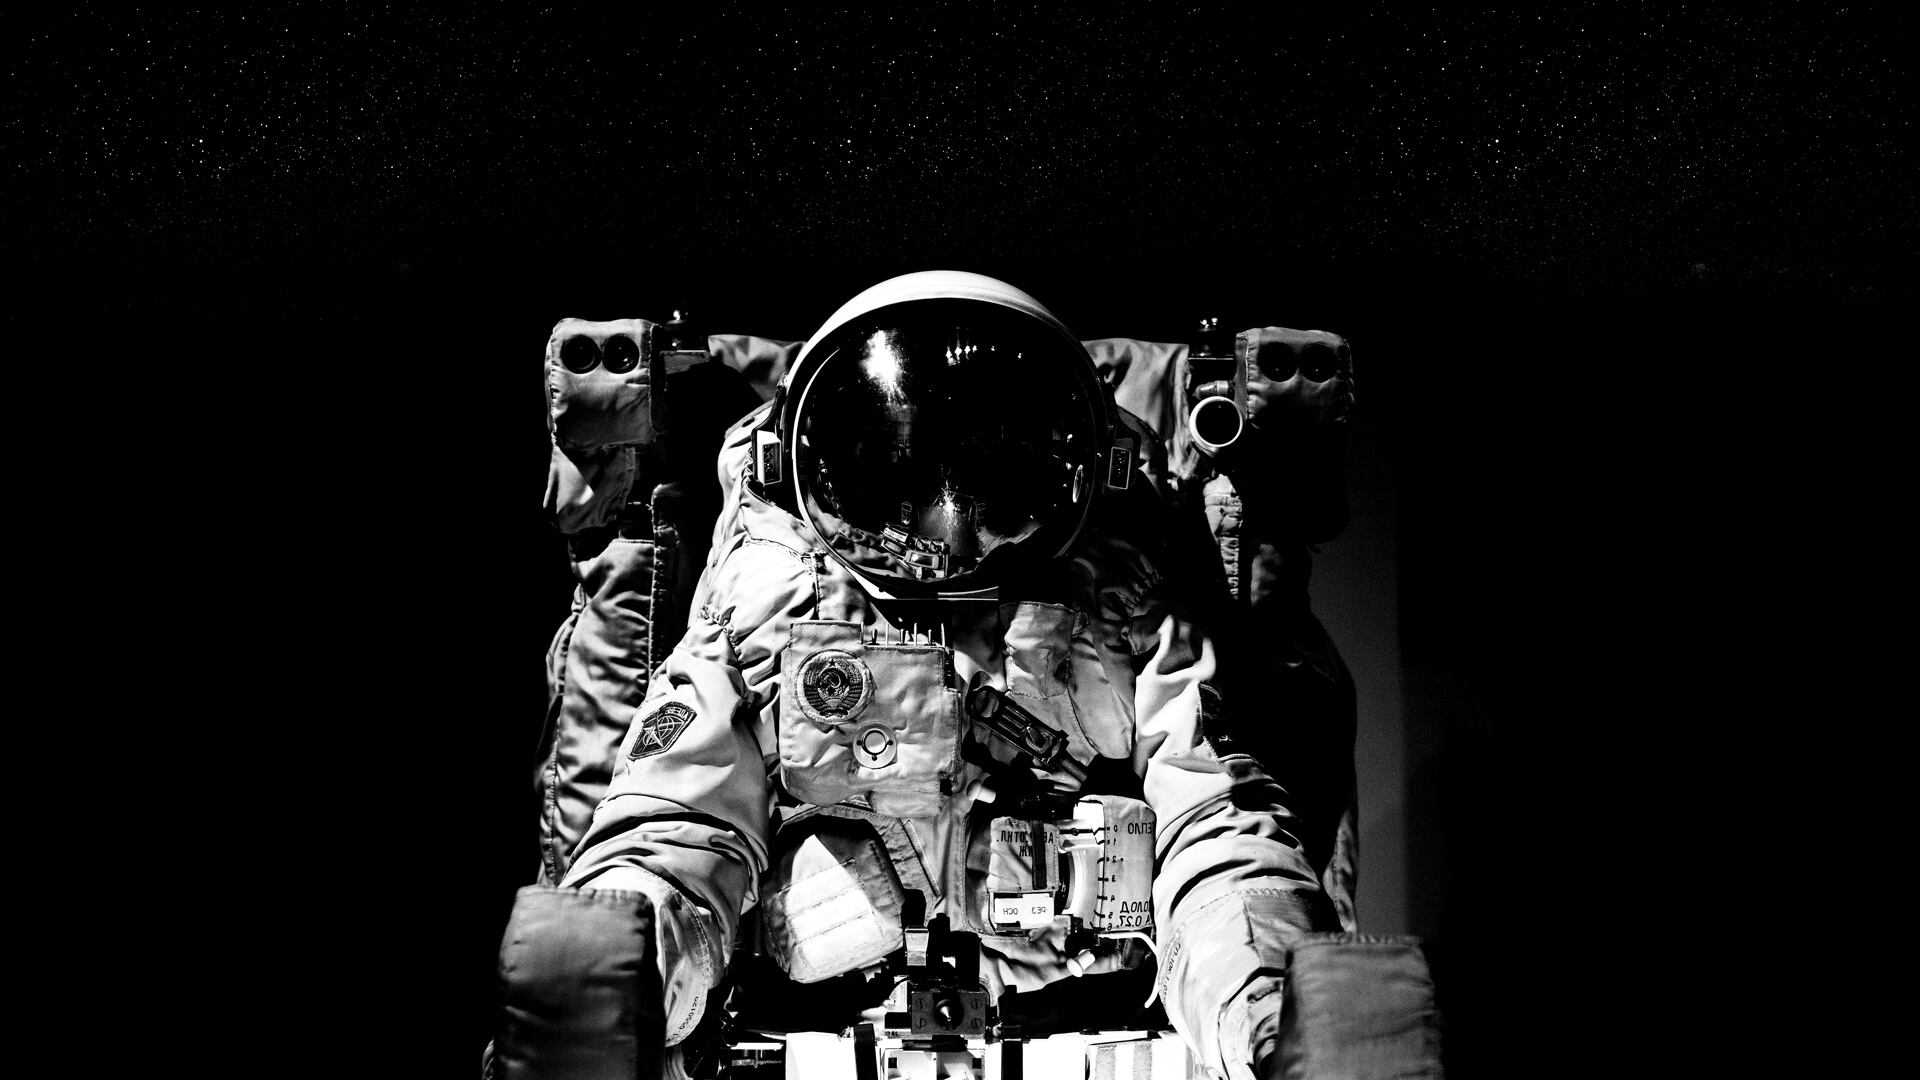
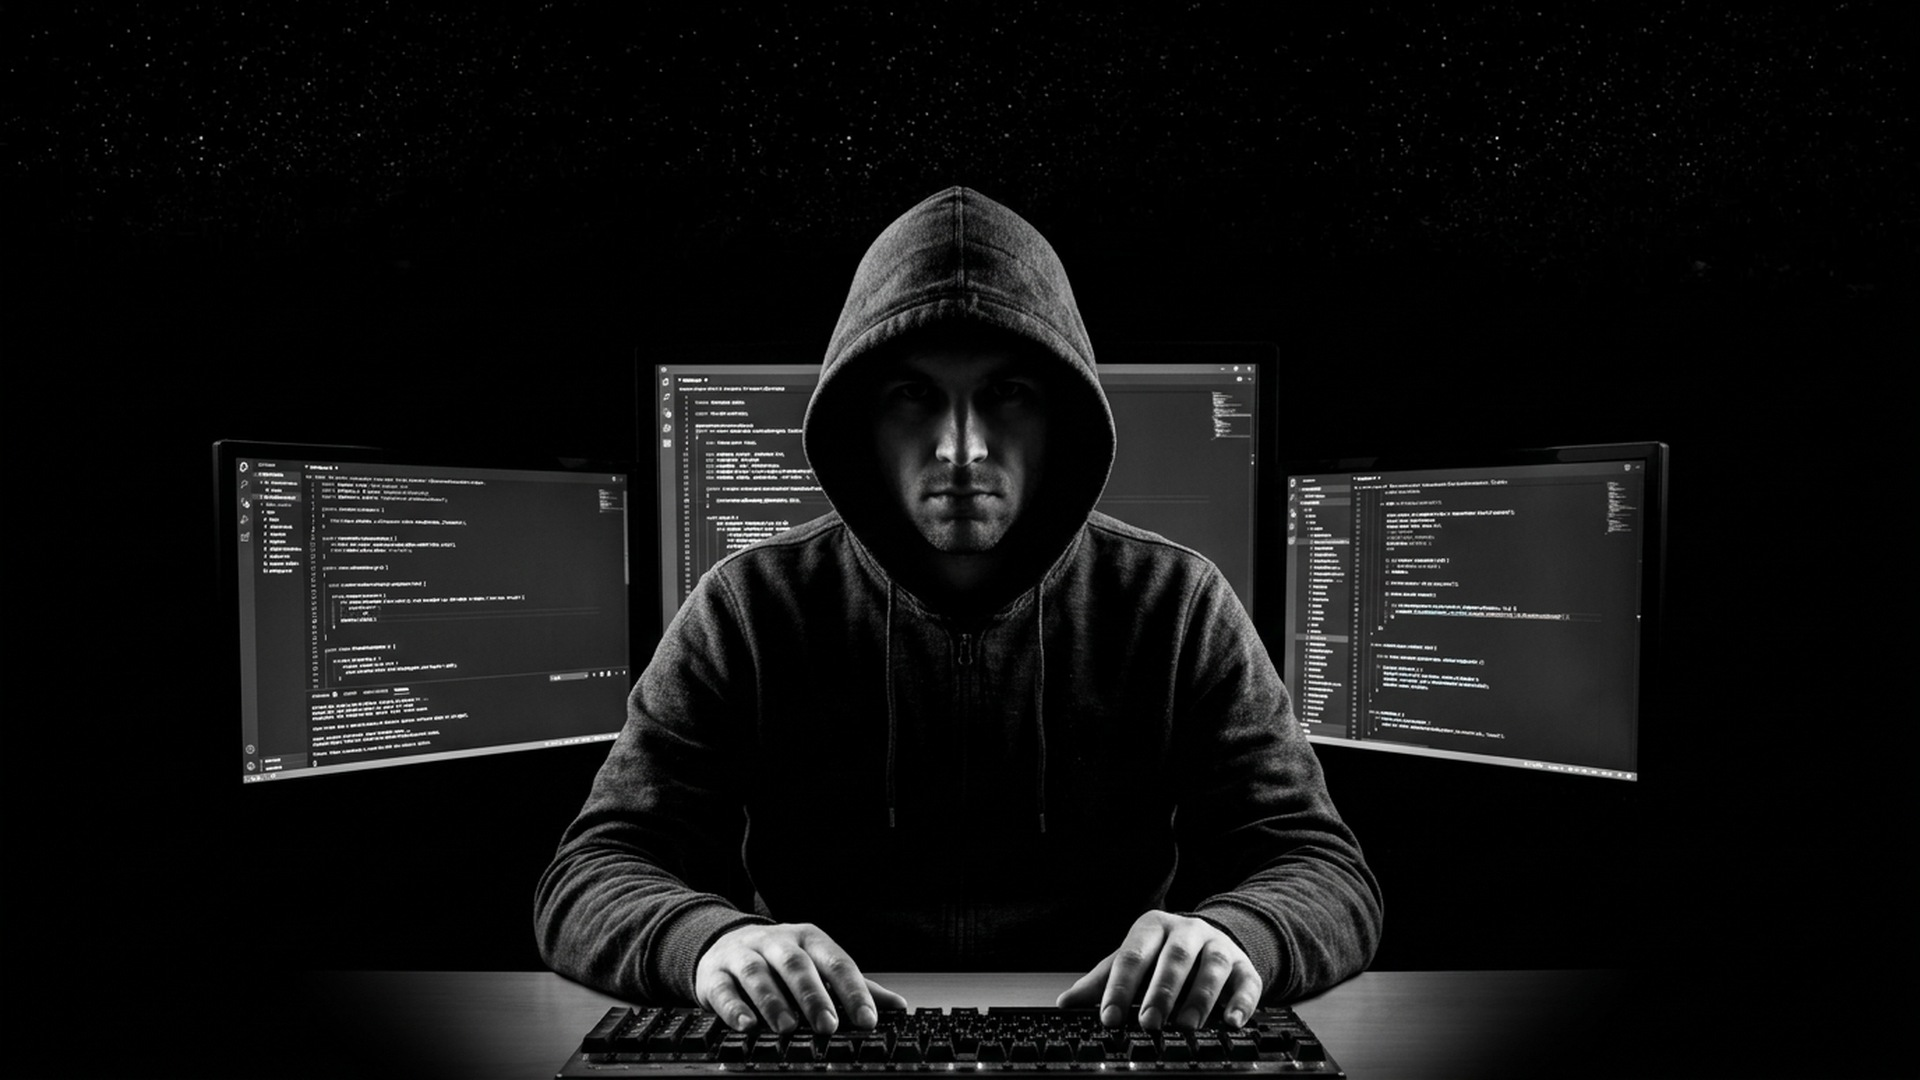
css fix

diff --git a/templates/index.html b/templates/index.html
@@ -29,6 +29,8 @@
   h3 { font-size: 22px !important; }
   h4 { font-size: 14px !important; font-weight: 700 !important; }
   .nav > li > a { font-size: 15px !important; }
+  #main-nav .nav > li > a { font-weight: 600 !important; }
+  #main-nav .nav > li > a.active { font-weight: 700 !important; }
   .form-control { font-size: 14px !important; }
   .btn { font-size: 13px !important; font-weight: 500 !important; }
   .list-unstyled li { font-size: 14px !important; }
@@ -37,7 +39,64 @@
 
   .navbar-scrolled {
     background-color: rgba(0, 0, 0, 0.92) !important;
-    transition: background-color 0.3s ease;
+    transition: background-color 0.3s ease, color 0.2s ease;
+  }
+
+  /* Past hero: white header + bold black links (matches standalone white pages) */
+  #main-nav.main-nav-over-white {
+    background-color: #ffffff !important;
+    border-bottom: 1px solid rgba(0, 0, 0, 0.08);
+    transition: background-color 0.3s ease, color 0.2s ease;
+  }
+  #main-nav.main-nav-over-white.navbar-scrolled {
+    background-color: #ffffff !important;
+  }
+  #main-nav.main-nav-over-white .navbar-nav > li > a {
+    color: #000000 !important;
+    -webkit-text-fill-color: #000000;
+    font-weight: 700 !important;
+    text-shadow: 0.45px 0 0 #000, -0.45px 0 0 #000, 0 0.45px 0 #000, 0 -0.45px 0 #000;
+  }
+  #main-nav.main-nav-over-white .navbar-nav > li > a:hover,
+  #main-nav.main-nav-over-white .navbar-nav > li > a:focus {
+    color: #000000 !important;
+    font-weight: 700 !important;
+  }
+  #main-nav.main-nav-over-white .navbar-nav > li > a.active {
+    color: #000000 !important;
+    font-weight: 700 !important;
+  }
+  #main-nav.main-nav-over-white .navbar-toggle {
+    border-color: rgba(0, 0, 0, 0.35);
+    background-color: #fff;
+  }
+  #main-nav.main-nav-over-white .navbar-toggle .icon-bar {
+    background-color: #000;
+  }
+
+  /* Full-bleed hero: full viewport height, edge-to-edge + dark overlay */
+  .hero-full-bleed {
+    width: 100%;
+    min-height: 100vh;
+    box-sizing: border-box;
+    display: flex;
+    align-items: center;
+    padding: 70px 0 40px;
+    background-color: #0a0a0a;
+    background-size: cover;
+    background-position: center;
+    background-repeat: no-repeat;
+    /* Hero: coder at PC, same composition as original template (space.jpg) */
+    background-image: url('./static/assets/images/space.jpg');
+  }
+  .hero-full-bleed > .container {
+    width: 100%;
+  }
+  .hero-full-bleed .hero-full-wrapper {
+    width: 100%;
+  }
+  .hero-full-bleed .text-content {
+    padding-left: clamp(1.75rem, 5vw, 4.5rem);
   }
 
   /* Cards: fixed height so buttons always align, each card independent */
@@ -160,7 +219,7 @@
 
 <!-- ======================== 01 : HOME ======================== -->
 <section id="home">
-  <div class="hero-full-container background-image-container white-text-container" style="background-image: url('./static/assets/images/space.jpg')">
+  <div class="hero-full-bleed background-image-container white-text-container">
     <div class="container">
       <div class="row">
         <div class="col-xs-12">
@@ -441,15 +500,28 @@
      type();
      movingBackgroundImage();
 
-     // Navbar background on scroll
+     // Navbar: dark bar on hero; white bar + black links on white sections
      var nav = document.getElementById('main-nav');
-     window.addEventListener('scroll', function() {
-       if (window.scrollY > 100) {
-         nav.classList.add('navbar-scrolled');
-       } else {
+     var homeSection = document.getElementById('home');
+     function updateMainNavTheme() {
+       if (!nav || !homeSection) return;
+       var heroBottom = homeSection.offsetTop + homeSection.offsetHeight;
+       var pastHero = window.scrollY >= heroBottom - 40;
+       if (pastHero) {
+         nav.classList.add('main-nav-over-white');
          nav.classList.remove('navbar-scrolled');
+       } else {
+         nav.classList.remove('main-nav-over-white');
+         if (window.scrollY > 100) {
+           nav.classList.add('navbar-scrolled');
+         } else {
+           nav.classList.remove('navbar-scrolled');
+         }
        }
-     });
+     }
+     updateMainNavTheme();
+     window.addEventListener('scroll', updateMainNavTheme);
+     window.addEventListener('resize', updateMainNavTheme);
 
      // Highlight active nav link on scroll
      var sections = document.querySelectorAll('section[id]');
@@ -461,10 +533,8 @@
            var id = section.getAttribute('id');
            navLinks.forEach(function(link) {
              link.classList.remove('active');
-             link.style.fontWeight = '300';
              if (link.getAttribute('href') === '#' + id) {
                link.classList.add('active');
-               link.style.fontWeight = '700';
              }
            });
          }

diff --git a/templates/about.html b/templates/about.html
@@ -23,6 +23,30 @@
   h3 { font-size: 22px !important; }
   h4 { font-size: 14px !important; font-weight: 700 !important; }
   .nav > li > a { font-size: 15px !important; }
+  header .navbar-default .navbar-nav > li > a {
+    color: #000000 !important;
+    -webkit-text-fill-color: #000000;
+    font-weight: 700 !important;
+    letter-spacing: 0.03em;
+    opacity: 1 !important;
+    text-shadow: 0.45px 0 0 #000, -0.45px 0 0 #000, 0 0.45px 0 #000, 0 -0.45px 0 #000;
+  }
+  header .navbar-default .navbar-nav > li > a:hover,
+  header .navbar-default .navbar-nav > li > a:focus {
+    color: #000000 !important;
+    -webkit-text-fill-color: #000000;
+    font-weight: 700 !important;
+    text-shadow: 0.45px 0 0 #000, -0.45px 0 0 #000, 0 0.45px 0 #000, 0 -0.45px 0 #000;
+  }
+  header .navbar-default .navbar-nav > .active > a,
+  header .navbar-default .navbar-nav > .active > a:hover,
+  header .navbar-default .navbar-nav > .active > a:focus,
+  header .navbar-default .navbar-nav > li > a.active {
+    color: #000000 !important;
+    -webkit-text-fill-color: #000000;
+    font-weight: 700 !important;
+    text-shadow: 0.45px 0 0 #000, -0.45px 0 0 #000, 0 0.45px 0 #000, 0 -0.45px 0 #000;
+  }
   .list-unstyled li { font-size: 14px !important; }
   .fa-icon { font-size: 16px !important; }
 </style>

diff --git a/templates/components.html b/templates/components.html
@@ -17,7 +17,29 @@
 
   <title>Title page</title>  
 
-<link href="./main.3f6952e4.css" rel="stylesheet"></head>
+<link href="./main.3f6952e4.css" rel="stylesheet">
+<style>
+  header .navbar-default .navbar-nav > li > a {
+    color: #000000 !important;
+    -webkit-text-fill-color: #000000;
+    font-weight: 700 !important;
+    letter-spacing: 0.03em;
+    opacity: 1 !important;
+    text-shadow: 0.45px 0 0 #000, -0.45px 0 0 #000, 0 0.45px 0 #000, 0 -0.45px 0 #000;
+  }
+  header .navbar-default .navbar-nav > li > a:hover,
+  header .navbar-default .navbar-nav > li > a:focus,
+  header .navbar-default .navbar-nav > .active > a,
+  header .navbar-default .navbar-nav > .active > a:hover,
+  header .navbar-default .navbar-nav > .active > a:focus,
+  header .navbar-default .navbar-nav > li > a.active {
+    color: #000000 !important;
+    -webkit-text-fill-color: #000000;
+    font-weight: 700 !important;
+    text-shadow: 0.45px 0 0 #000, -0.45px 0 0 #000, 0 0.45px 0 #000, 0 -0.45px 0 #000;
+  }
+</style>
+</head>
 
 <body class="">
 <div id="site-border-left"></div>

diff --git a/templates/thankyou.html b/templates/thankyou.html
@@ -17,7 +17,29 @@
 
   <title>Thank You | Biniyam Tafesse</title>  
 
-<link href="./static/main.3f6952e4.css" rel="stylesheet"></head>
+<link href="./static/main.3f6952e4.css" rel="stylesheet">
+<style>
+  header .navbar-default .navbar-nav > li > a {
+    color: #000000 !important;
+    -webkit-text-fill-color: #000000;
+    font-weight: 700 !important;
+    letter-spacing: 0.03em;
+    opacity: 1 !important;
+    text-shadow: 0.45px 0 0 #000, -0.45px 0 0 #000, 0 0.45px 0 #000, 0 -0.45px 0 #000;
+  }
+  header .navbar-default .navbar-nav > li > a:hover,
+  header .navbar-default .navbar-nav > li > a:focus,
+  header .navbar-default .navbar-nav > .active > a,
+  header .navbar-default .navbar-nav > .active > a:hover,
+  header .navbar-default .navbar-nav > .active > a:focus,
+  header .navbar-default .navbar-nav > li > a.active {
+    color: #000000 !important;
+    -webkit-text-fill-color: #000000;
+    font-weight: 700 !important;
+    text-shadow: 0.45px 0 0 #000, -0.45px 0 0 #000, 0 0.45px 0 #000, 0 -0.45px 0 #000;
+  }
+</style>
+</head>
 
 <body class="">
 <div id="site-border-left"></div>

diff --git a/templates/work.html b/templates/work.html
@@ -16,7 +16,29 @@
 
   <title>Project Detail | Biniyam Tafesse</title>  
 
-<link href="./static/main.3f6952e4.css" rel="stylesheet"></head>
+<link href="./static/main.3f6952e4.css" rel="stylesheet">
+<style>
+  header .navbar-default .navbar-nav > li > a {
+    color: #000000 !important;
+    -webkit-text-fill-color: #000000;
+    font-weight: 700 !important;
+    letter-spacing: 0.03em;
+    opacity: 1 !important;
+    text-shadow: 0.45px 0 0 #000, -0.45px 0 0 #000, 0 0.45px 0 #000, 0 -0.45px 0 #000;
+  }
+  header .navbar-default .navbar-nav > li > a:hover,
+  header .navbar-default .navbar-nav > li > a:focus,
+  header .navbar-default .navbar-nav > .active > a,
+  header .navbar-default .navbar-nav > .active > a:hover,
+  header .navbar-default .navbar-nav > .active > a:focus,
+  header .navbar-default .navbar-nav > li > a.active {
+    color: #000000 !important;
+    -webkit-text-fill-color: #000000;
+    font-weight: 700 !important;
+    text-shadow: 0.45px 0 0 #000, -0.45px 0 0 #000, 0 0.45px 0 #000, 0 -0.45px 0 #000;
+  }
+</style>
+</head>
 
 <body class="">
 <div id="site-border-left"></div>

diff --git a/templates/contact.html b/templates/contact.html
@@ -23,6 +23,25 @@
   h3 { font-size: 22px !important; }
   h4 { font-size: 14px !important; font-weight: 700 !important; }
   .nav > li > a { font-size: 15px !important; }
+  header .navbar-default .navbar-nav > li > a {
+    color: #000000 !important;
+    -webkit-text-fill-color: #000000;
+    font-weight: 700 !important;
+    letter-spacing: 0.03em;
+    opacity: 1 !important;
+    text-shadow: 0.45px 0 0 #000, -0.45px 0 0 #000, 0 0.45px 0 #000, 0 -0.45px 0 #000;
+  }
+  header .navbar-default .navbar-nav > li > a:hover,
+  header .navbar-default .navbar-nav > li > a:focus,
+  header .navbar-default .navbar-nav > .active > a,
+  header .navbar-default .navbar-nav > .active > a:hover,
+  header .navbar-default .navbar-nav > .active > a:focus,
+  header .navbar-default .navbar-nav > li > a.active {
+    color: #000000 !important;
+    -webkit-text-fill-color: #000000;
+    font-weight: 700 !important;
+    text-shadow: 0.45px 0 0 #000, -0.45px 0 0 #000, 0 0.45px 0 #000, 0 -0.45px 0 #000;
+  }
   .form-control { font-size: 14px !important; }
   .btn { font-size: 13px !important; font-weight: 500 !important; }
   .list-unstyled li { font-size: 14px !important; }

diff --git a/templates/works.html b/templates/works.html
@@ -23,6 +23,25 @@
   h3 { font-size: 22px !important; }
   h4 { font-size: 14px !important; font-weight: 700 !important; }
   .nav > li > a { font-size: 15px !important; }
+  header .navbar-default .navbar-nav > li > a {
+    color: #000000 !important;
+    -webkit-text-fill-color: #000000;
+    font-weight: 700 !important;
+    letter-spacing: 0.03em;
+    opacity: 1 !important;
+    text-shadow: 0.45px 0 0 #000, -0.45px 0 0 #000, 0 0.45px 0 #000, 0 -0.45px 0 #000;
+  }
+  header .navbar-default .navbar-nav > li > a:hover,
+  header .navbar-default .navbar-nav > li > a:focus,
+  header .navbar-default .navbar-nav > .active > a,
+  header .navbar-default .navbar-nav > .active > a:hover,
+  header .navbar-default .navbar-nav > .active > a:focus,
+  header .navbar-default .navbar-nav > li > a.active {
+    color: #000000 !important;
+    -webkit-text-fill-color: #000000;
+    font-weight: 700 !important;
+    text-shadow: 0.45px 0 0 #000, -0.45px 0 0 #000, 0 0.45px 0 #000, 0 -0.45px 0 #000;
+  }
   .btn { font-size: 13px !important; font-weight: 500 !important; }
   .list-unstyled li { font-size: 14px !important; }
   .fa-icon { font-size: 16px !important; }